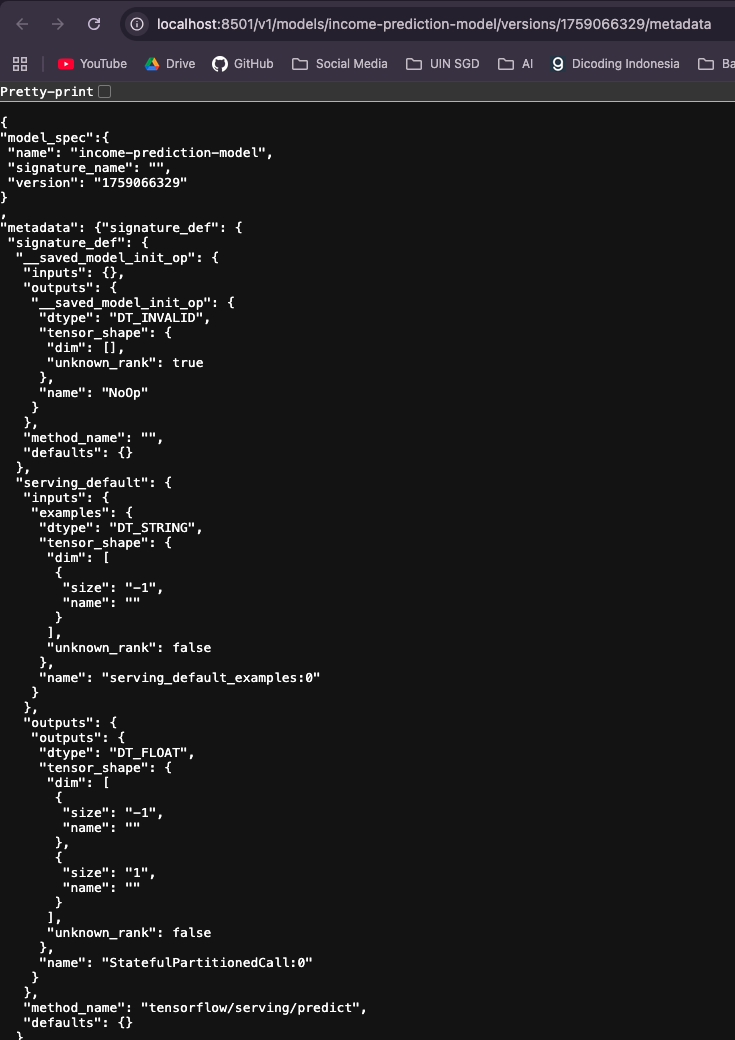
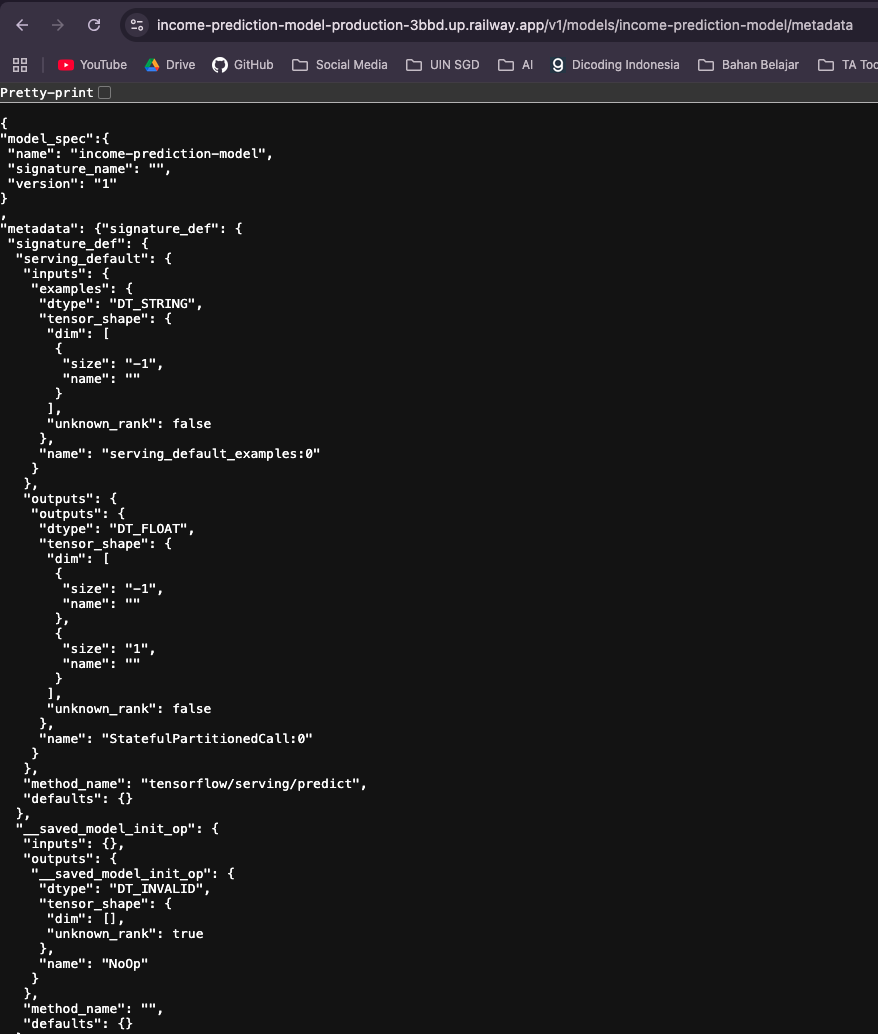
fix

diff --git a/format-dokumentasi.md b/format-dokumentasi.md
@@ -1,5 +1,3 @@
-| Web app | Tautan web app yang digunakan untuk mengakses model serving. Contoh: [nama-model](https://model-resiko-kredit.herokuapp.com/v1/models/model-resiko-kredit/metadata)|
-
 # Submission 1: Adult Income Prediction
 
 Nama:  Jasmein Al-baar Putri Rus'an
@@ -15,6 +13,5 @@ Username dicoding: jasmeinalbaar
 | Metrik evaluasi | Evaluasi menggunakan TFMA dengan metrik: <br> - BinaryAccuracy (dengan threshold) <br> - AUC <br> - Precision <br> - Recall <br> - ExampleCount |
 | Performa model | Model mencapai Accuracy = 85.0%, AUC = 90.2%, Precision = 72.1%, dan Recall = 62.9% pada data evaluasi (6,610 contoh). Hasil ini menunjukkan model cukup baik dalam membedakan kategori pendapatan (>50K dan <=50K), meskipun masih ada ruang peningkatan terutama pada recall. |
 | Opsi deployment | Model disiapkan untuk *serving* menggunakan TensorFlow Serving + Docker, kemudian di-*deploy* ke Railway. |
-| Web app | *(belum diisi, tambahkan link endpoint Railway misalnya: `https://adult-income-ml.railway.app/v1/models/adult_income/metadata`)* |
-| Monitoring | Monitoring dilakukan menggunakan Prometheus untuk mengumpulkan metrik model, dengan rencana integrasi Grafana sebagai visualisasi performa dan kesehatan model. |
-
+| Web app | [income-prediction-model](https://income-prediction-model-production-3bbd.up.railway.app/v1/models/income-prediction-model/metadata) |
+| Monitoring | Monitoring dilakukan menggunakan Prometheus untuk memonitor metrik dari model yang telah dideploy, seperti jumlah permintaan dan statusnya |
